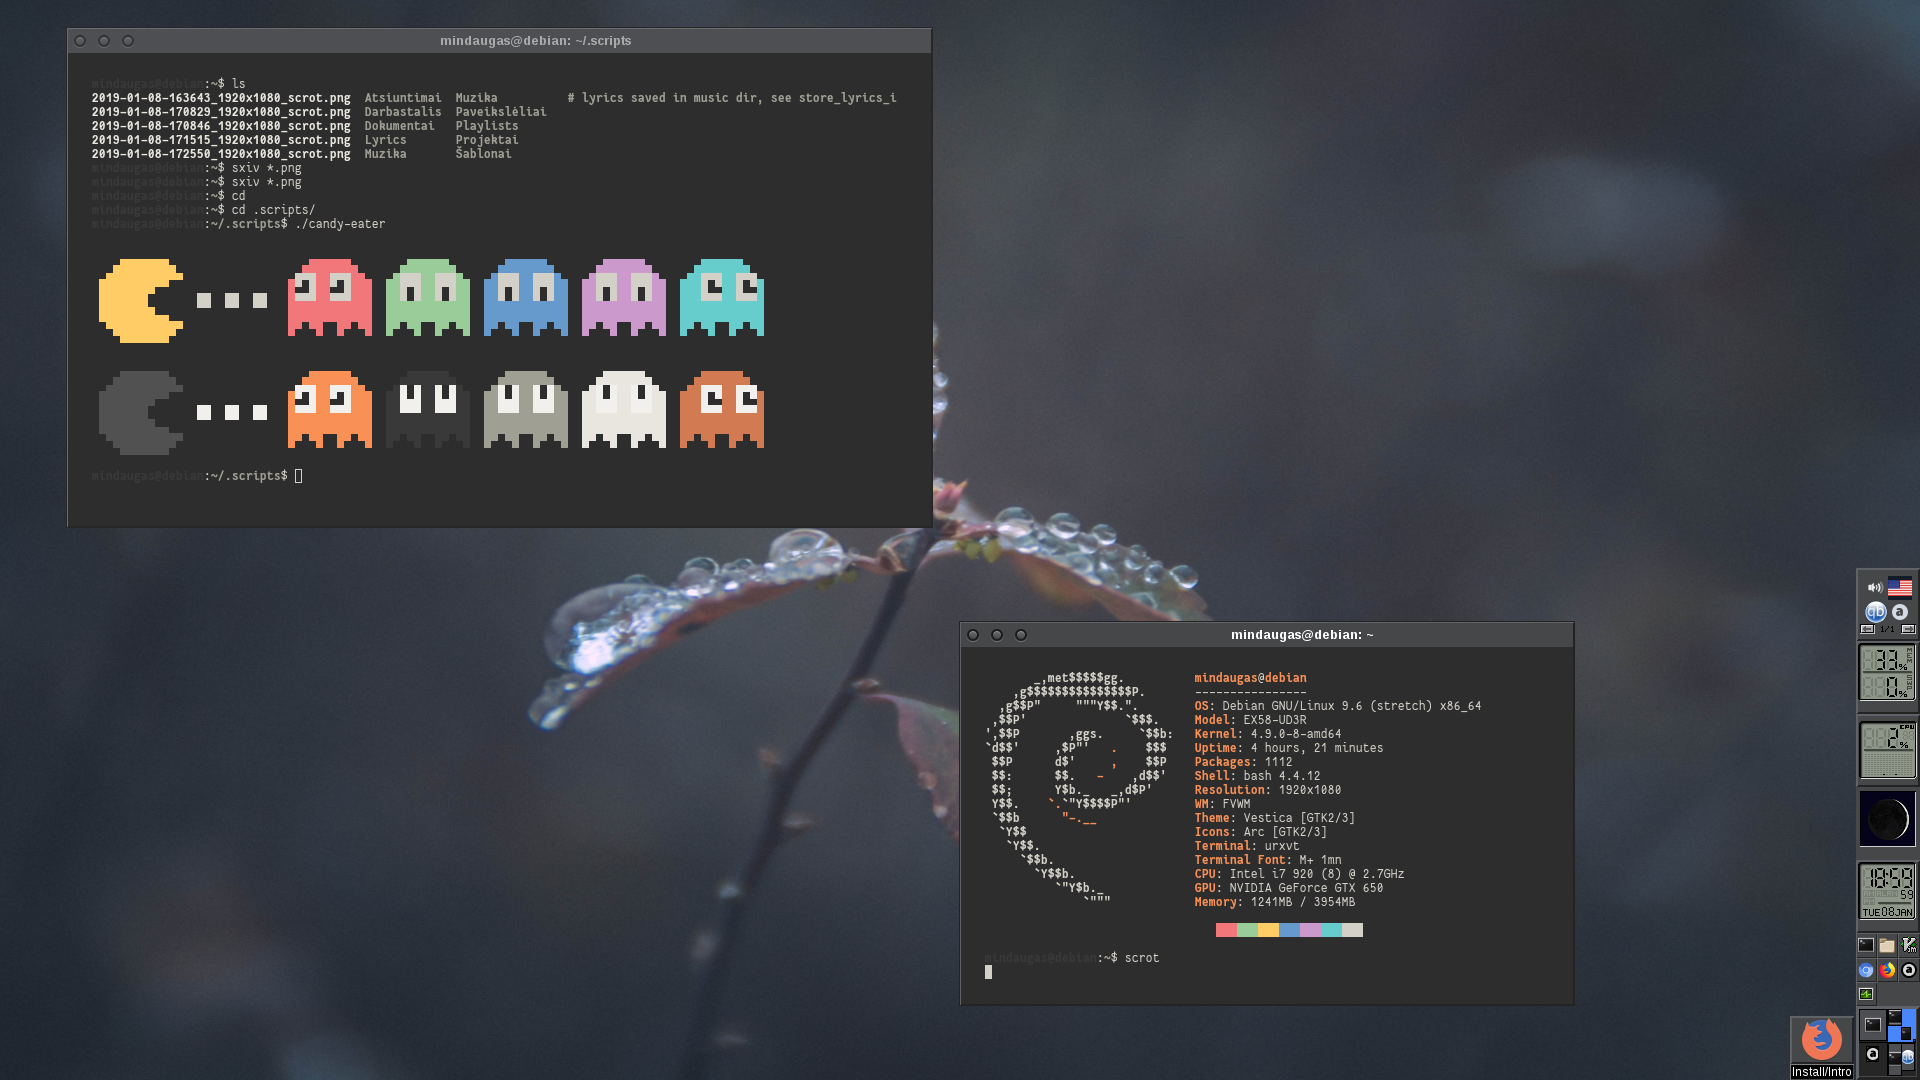
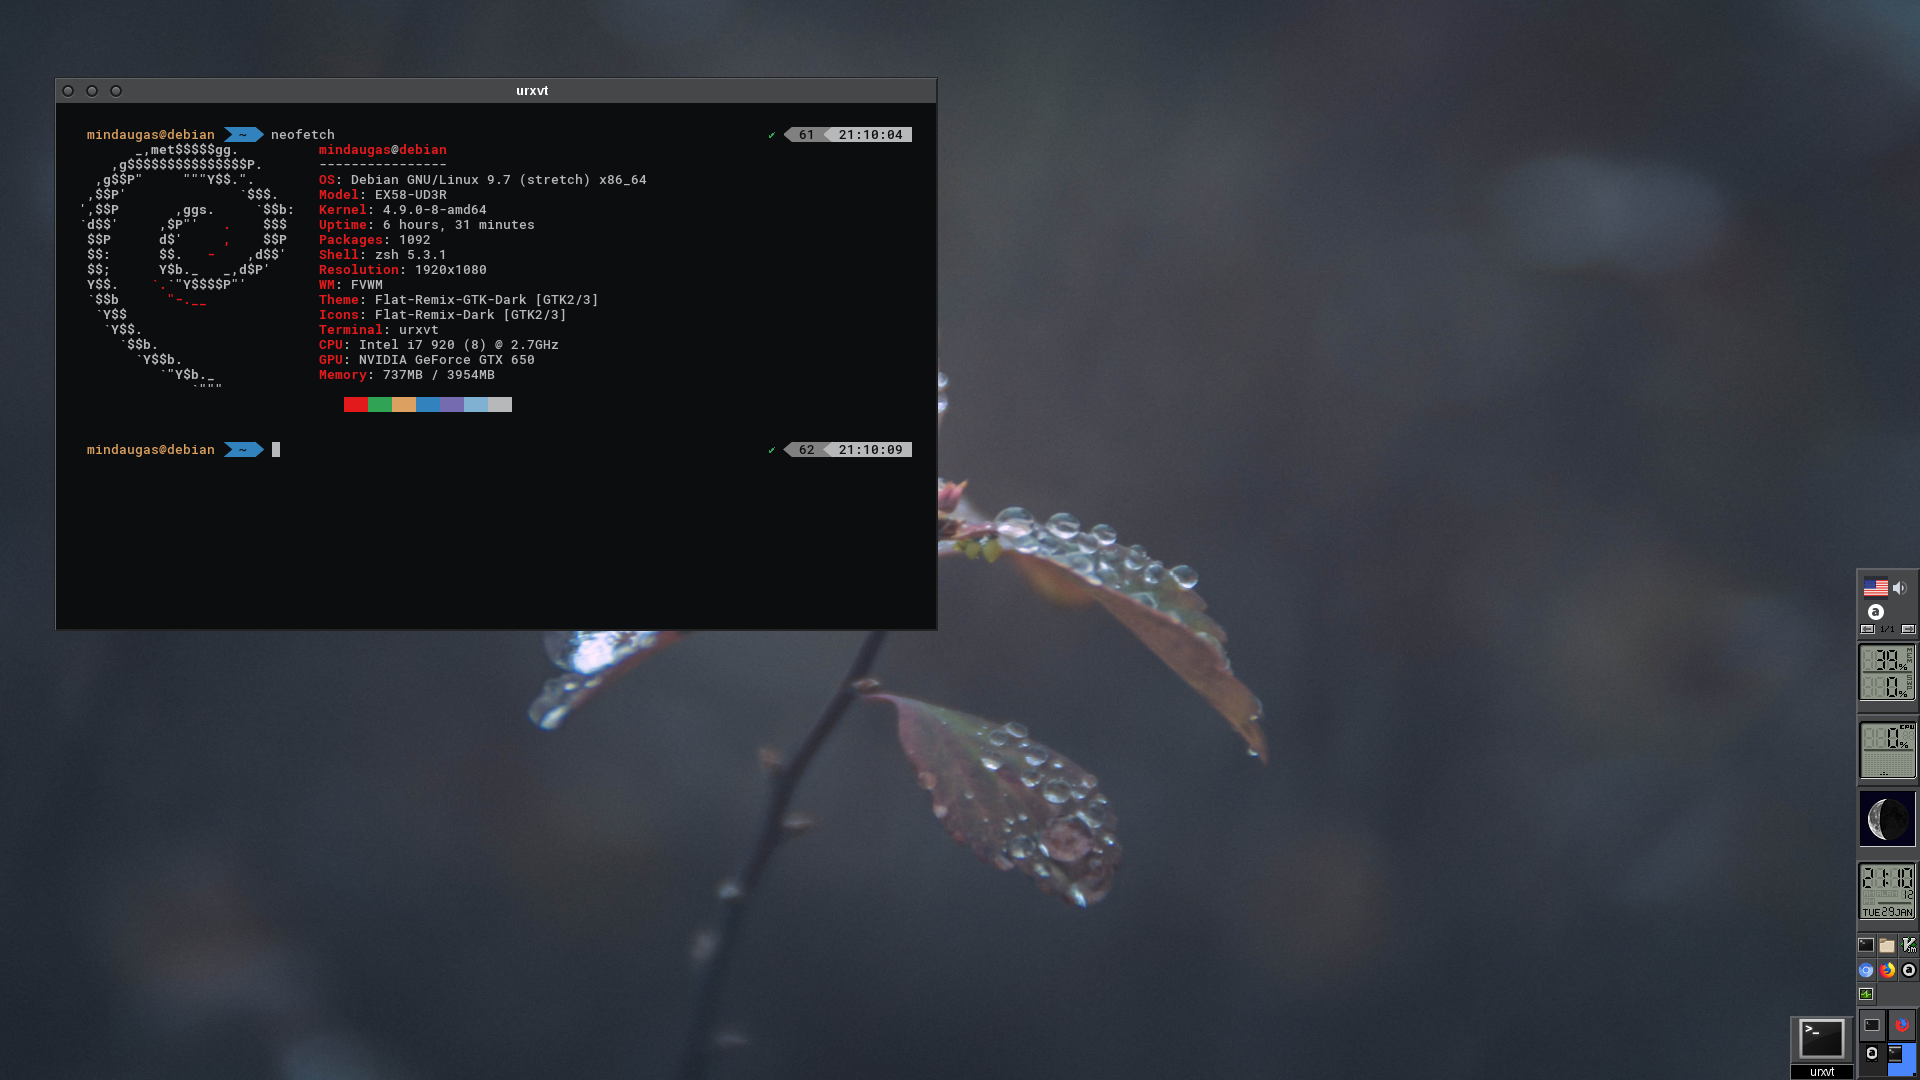
Updated Readme, added new screenshots

diff --git a/README.md b/README.md
@@ -1,6 +1,6 @@
 # FVWM-configuration
 My FVWM configuration, that mimics the look of wmaker.
-You also need to install following applications to have a fully working dock and some functions: `wmcpuload wmsystemtray wmmemload  wmMoonClock wmclockmon fbxkb volumeicon suckless-tools  liberation-fonts-ttf rxvt-unicode fonts-noto fonts-mplus xsettingsd lxappearance`
+You also need to install following applications to have a fully working dock and some functions: `wmcpuload wmsystemtray wmmemload  wmMoonClock wmclockmon fbxkb volumeicon suckless-tools  liberation-fonts-ttf rxvt-unicode xsettingsd lxappearance lxtask xfce4-terminal thunar xfce4-notifyd`. I also using zsh shell, with [powerlevel9k](https://github.com/bhilburn/powerlevel9k). If you want to be productive, i recommend installing it. 
 
 Screenshots:
 
